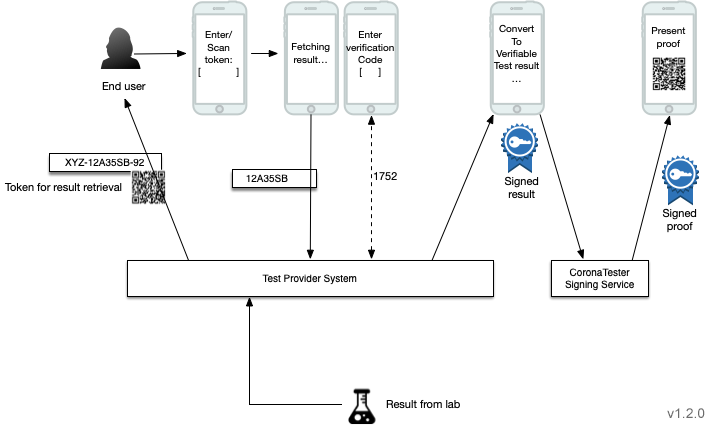
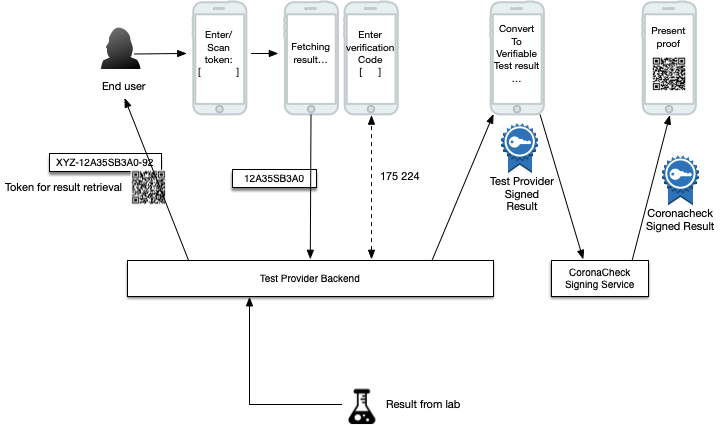
Updated TOC and images

diff --git a/docs/providing-test-results.md b/docs/providing-test-results.md
@@ -8,6 +8,8 @@ In the CoronaCheck project we are prototyping a means of presenting a digital pr
 
 - [CoronaCheck Prototype - Test Result Provisioning](#coronacheck-prototype---test-result-provisioning)
   * [Overview](#overview)
+    + [Retrieval from the CoronaCheck app](#retrieval-from-the-coronacheck-app)
+    + [Retrieval from print terminals](#retrieval-from-print-terminals)
   * [Requirements](#requirements)
   * [Distributing a test token](#distributing-a-test-token)
     + [Analog Code](#analog-code)
@@ -22,7 +24,8 @@ In the CoronaCheck project we are prototyping a means of presenting a digital pr
     + [Requesting owner verification](#requesting-owner-verification)
     + [Returning a test result](#returning-a-test-result)
     + [Response payload for invalid/expired tokens](#response-payload-for-invalid-expired-tokens)
-    + [Test result retention](#test-result-retention)
+    + [Token retention](#token-retention)
+    + [Performing terminal verification](#performing-terminal-verification)
     + [Error states](#error-states)
   * [Initial normalization](#initial-normalization)
   * [Signing responses](#signing-responses)
